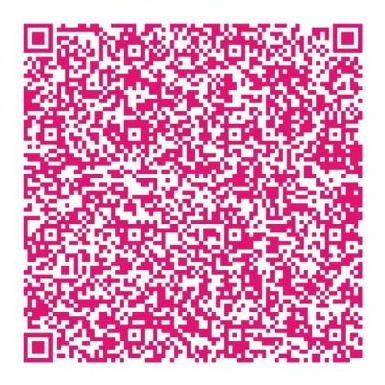
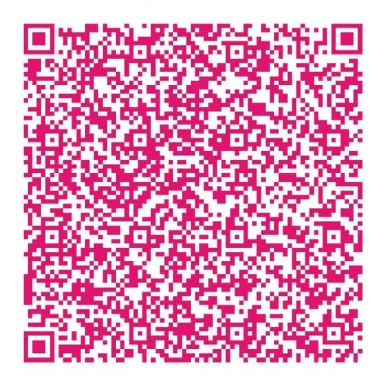
Update bKash QR code and number to 01521752871 with high-resolution matrix

diff --git a/index.html b/index.html
@@ -567,7 +567,7 @@
             <div class="receipt-qr-media">
               <div class="receipt-qr-header-tag"><i class="fa-solid fa-qrcode"></i> BANGLA QR</div>
               <img src="assets/bkash-qr-matrix.png" alt="bKash Bangla QR" class="receipt-qr-img" />
-              <div class="receipt-qr-sublabel"><strong>01533958357</strong> (সেন্ড মানি)</div>
+              <div class="receipt-qr-sublabel"><strong>01521752871</strong> (সেন্ড মানি)</div>
             </div>
             <div class="receipt-qr-info">
               <div class="receipt-qr-badge">
@@ -581,7 +581,10 @@
               <div class="receipt-qr-grid">
                 <div>
                   <span class="qg-lbl">বিকাশ পার্সোনাল নম্বর:</span>
-                  <strong class="qg-val text-pink">01533958357</strong>
+                  <div style="display:flex;align-items:center;gap:0.35rem">
+                    <strong class="qg-val text-pink">01521752871</strong>
+                    <button type="button" class="btn-copy-num" onclick="copyBkashNumber()" title="কপি"><i class="fa-solid fa-copy"></i></button>
+                  </div>
                 </div>
                 <div>
                   <span class="qg-lbl">রেফারেন্স (Ref Code):</span>
@@ -686,7 +689,7 @@
               <div class="ps-info-row">
                 <span class="ps-i-lbl">বিকাশ পার্সোনাল নম্বর:</span>
                 <div style="display:flex;align-items:center;gap:0.4rem">
-                  <span class="ps-i-val ps-bkash-num">01533958357</span>
+                  <span class="ps-i-val ps-bkash-num">01521752871</span>
                   <button type="button" class="btn-copy-num" onclick="copyBkashNumber()" title="নম্বর কপি করুন"><i class="fa-solid fa-copy"></i></button>
                 </div>
               </div>
@@ -702,7 +705,7 @@
                 <strong>কিভাবে পেমেন্ট করবেন?</strong>
                 <ol>
                   <li>বিকাশ অ্যাপ ওপেন করে <strong>"কিউআর স্ক্যান"</strong> অপশনে যান।</li>
-                  <li>পাশের বাংলা QR স্ক্যান করুন অথবা <strong>01533958357</strong> নম্বরে সেন্ড মানি করুন।</li>
+                  <li>পাশের বাংলা QR স্ক্যান করুন অথবা <strong>01521752871</strong> নম্বরে সেন্ড মানি করুন।</li>
                   <li>অ্যামাউন্টে ঠিক <strong><span id="ps-step-amt">৳০</span></strong> লিখুন।</li>
                   <li>রেফারেন্সে <strong><span id="ps-step-ref">রুম নং</span></strong> লিখে পিন দিয়ে কনফার্ম করুন।</li>
                 </ol>
@@ -719,7 +722,7 @@
       <div class="modal-footer" style="display:flex;justify-content:space-between;flex-wrap:wrap;gap:0.5rem">
         <button type="button" class="btn btn-secondary" data-close-modal="modal-payment-slip">বন্ধ করুন</button>
         <div style="display:flex;gap:0.4rem;flex-wrap:wrap">
-          <a href="assets/bkash-qr-matrix.png" download="bkash-bangla-qr-01533958357.png" class="btn btn-outline-pink btn-sm"><i class="fa-solid fa-download"></i> QR ছবি সেভ</a>
+          <a href="assets/bkash-qr-matrix.png" download="bkash-bangla-qr-01521752871.png" class="btn btn-outline-pink btn-sm"><i class="fa-solid fa-download"></i> QR ছবি সেভ</a>
           <button type="button" class="btn btn-success btn-sm" id="ps-btn-whatsapp"><i class="fa-brands fa-whatsapp"></i> WhatsApp-এ পাঠান</button>
           <button type="button" class="btn btn-primary btn-sm" onclick="printPaymentSlip()"><i class="fa-solid fa-print"></i> স্লিপ প্রিন্ট / PDF</button>
         </div>

diff --git a/js/receipt.js b/js/receipt.js
@@ -17,7 +17,7 @@ ${tk(bill.other) > 0 ? `• অন্যান্য চার্জ: ৳${tk(bi
 পরিশোধিত: ৳${tk(bill.paid).toLocaleString('en-IN')}
 ${tk(bill.due) > 0 ? `*বকেয়া: ৳${tk(bill.due).toLocaleString('en-IN')}*\n` : ''}${tk(bill.advance) > 0 ? `*অতিরিক্ত জমা (পরবর্তী মাসে সমন্বয় হবে): ৳${tk(bill.advance).toLocaleString('en-IN')}*\n` : ''}${bill.comment ? `নোট: ${bill.comment}\n` : ''}--------------------------------
 ${payableAmt > 0 ? `📲 *বিকাশ পেমেন্ট (Send Money):*
-• বিকাশ পার্সোনাল: *01533958357*
+• বিকাশ পার্সোনাল: *01521752871*
 • প্রদেয় টাকার পরিমাণ: *৳${payableAmt.toLocaleString('en-IN')}*
 • রেফারেন্স: *রুম ${room.number}*
 (বিকাশ বা ব্যাংক অ্যাপের বাংলা QR কোড স্ক্যান করেও দিতে পারবেন)
@@ -234,13 +234,13 @@ window.printPaymentSlip = function() {
 
 window.copyBkashNumber = function() {
   if (navigator.clipboard) {
-    navigator.clipboard.writeText('01533958357').then(() => {
-      toast('বিকাশ নম্বর 01533958357 কপি হয়েছে!', 'success');
+    navigator.clipboard.writeText('01521752871').then(() => {
+      toast('বিকাশ নম্বর 01521752871 কপি হয়েছে!', 'success');
     }).catch(() => {
-      toast('বিকাশ নম্বর: 01533958357', 'info');
+      toast('বিকাশ নম্বর: 01521752871', 'info');
     });
   } else {
-    toast('বিকাশ নম্বর: 01533958357', 'info');
+    toast('বিকাশ নম্বর: 01521752871', 'info');
   }
 };
 
